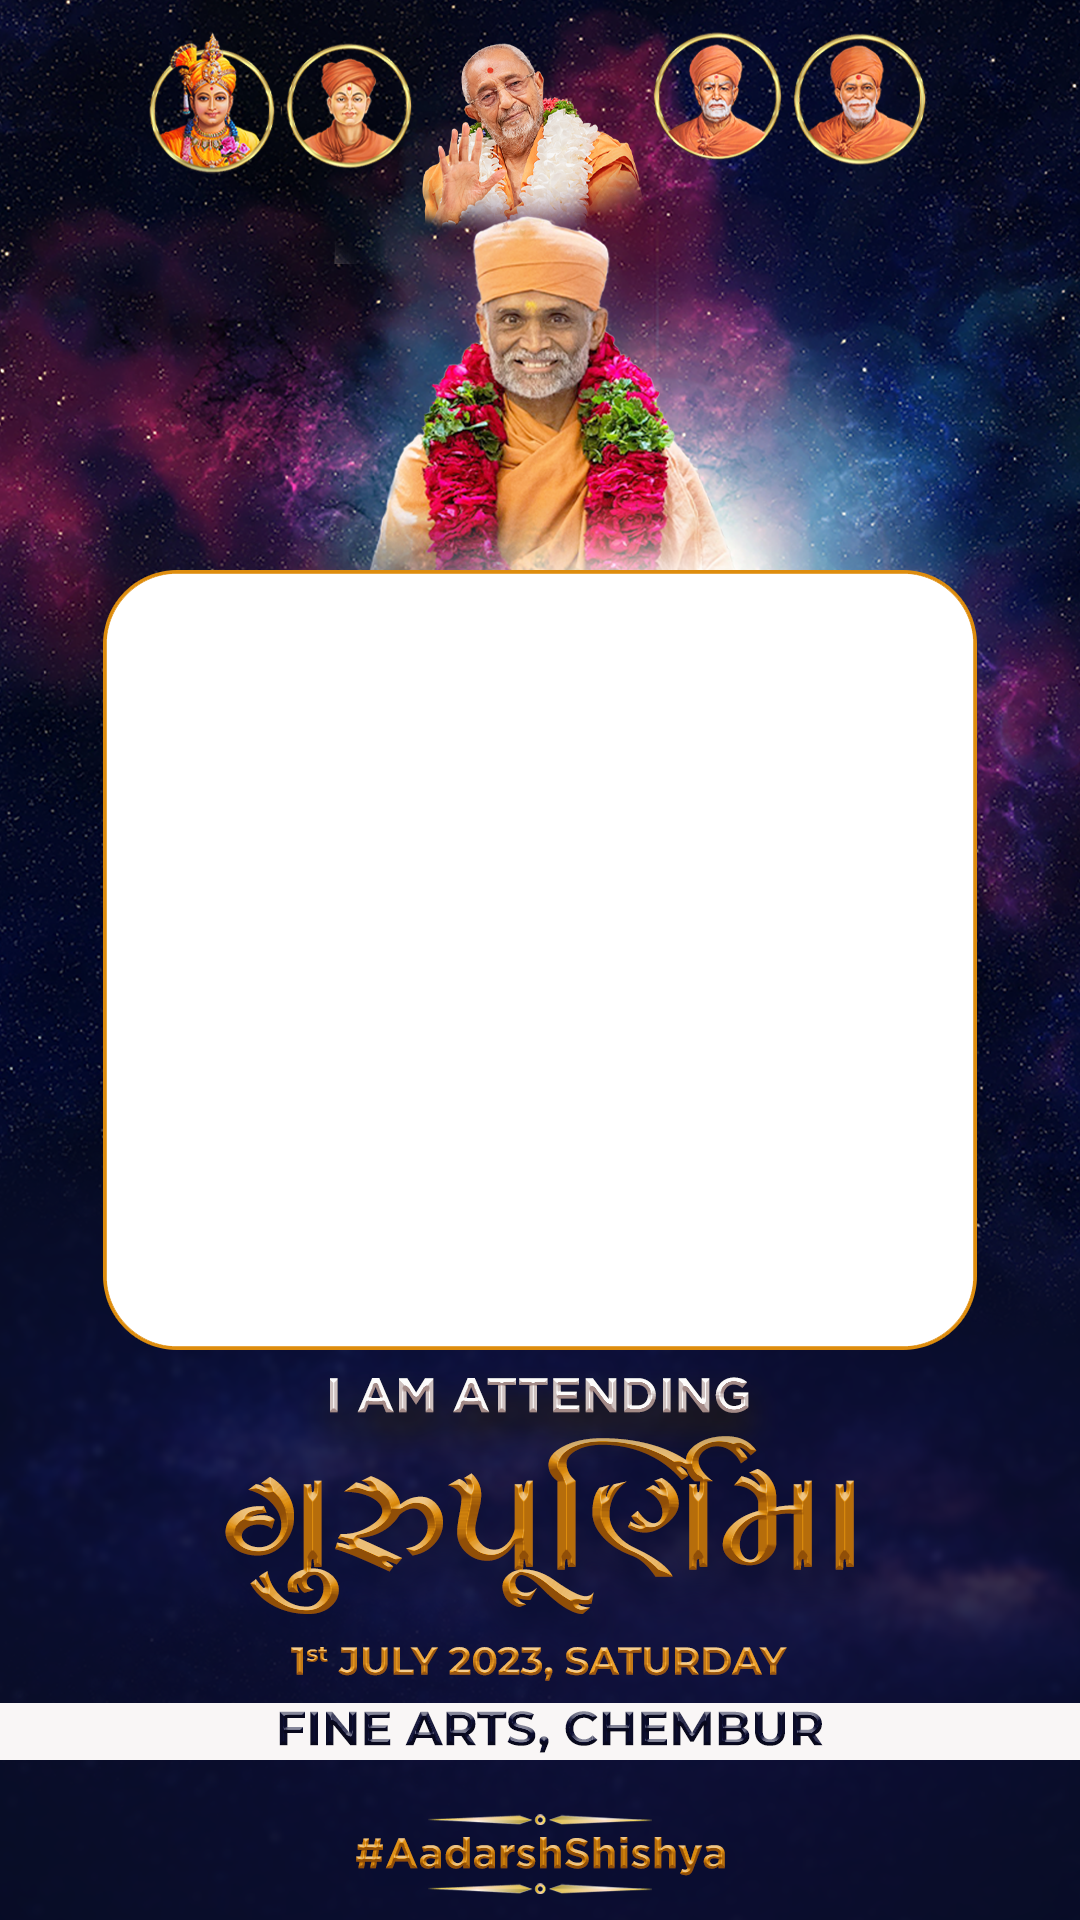
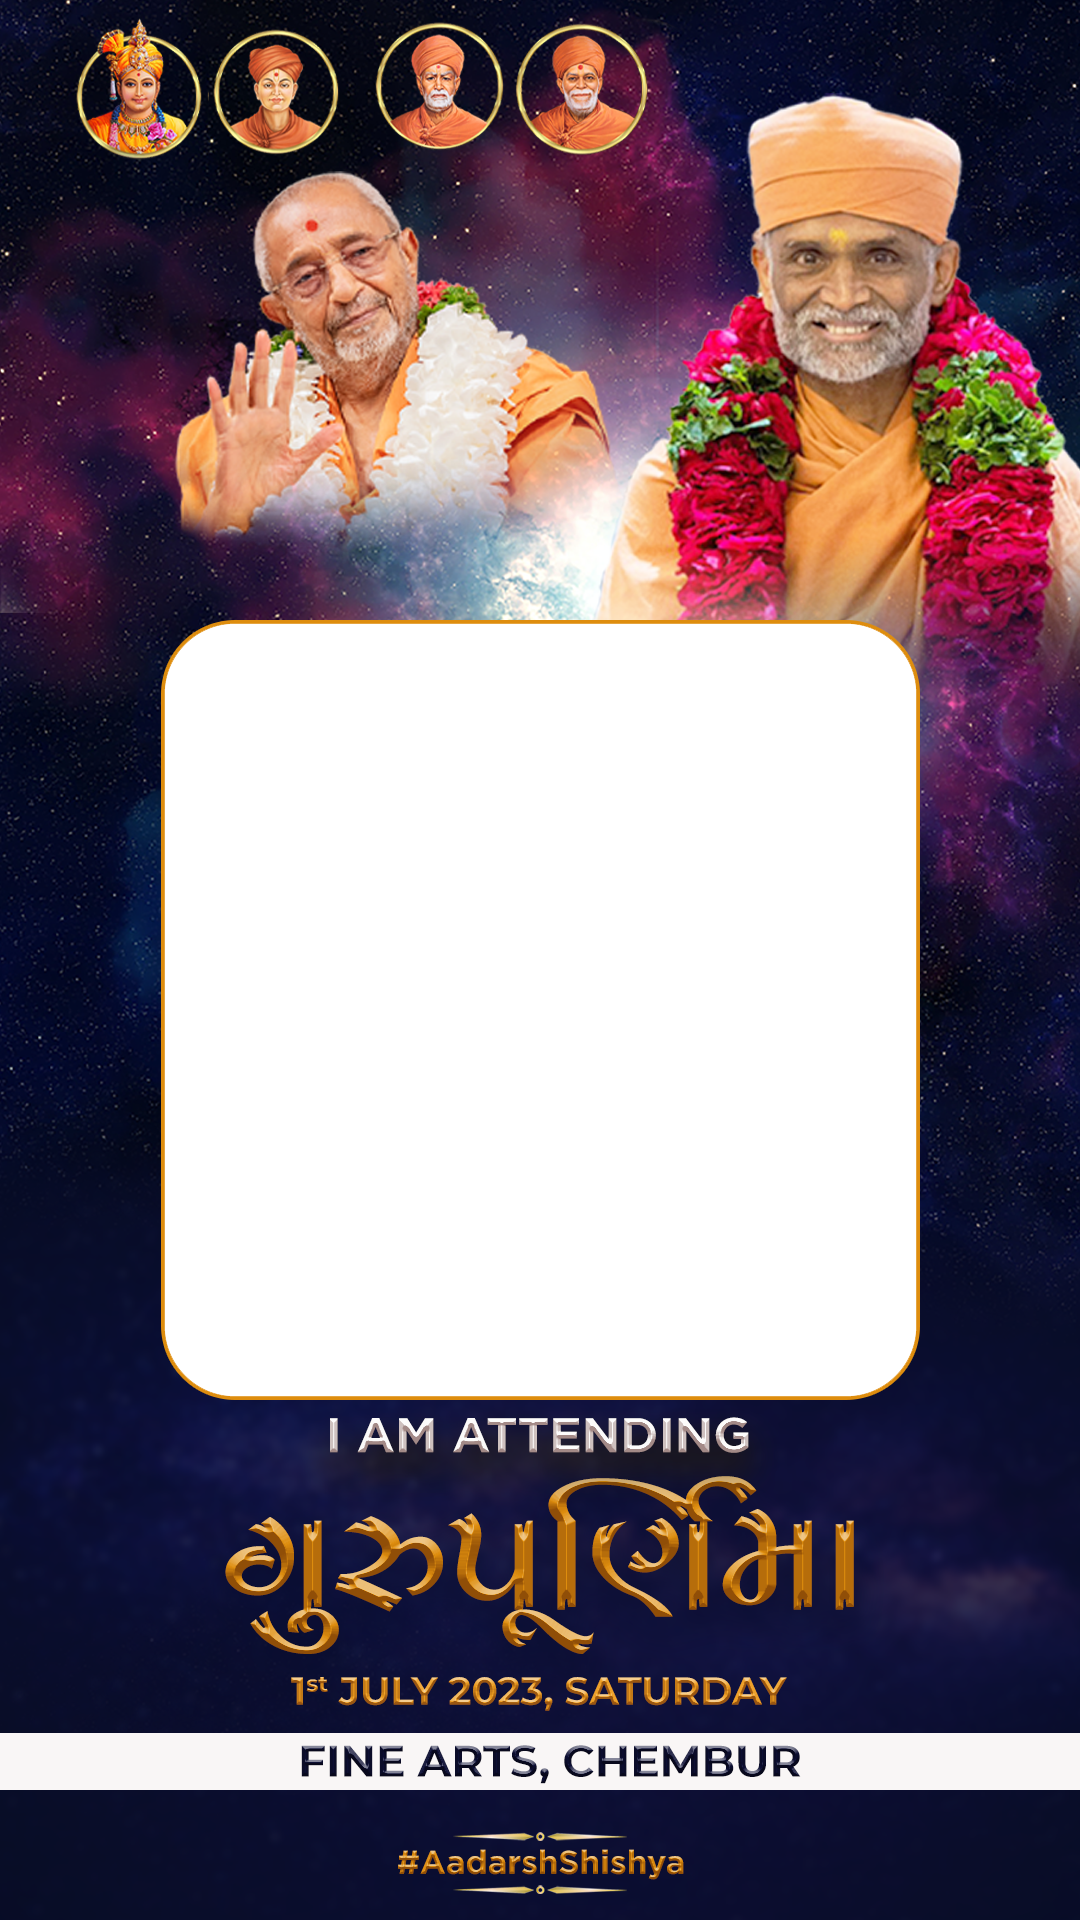
Add files via upload

diff --git a/index.html b/index.html
@@ -117,8 +117,8 @@
     <script src="js/cropper.js"></script>
     <script src="js/jquery-cropper.js"></script>
     <script>
-        var aspX = 400,
-            aspY = 360;
+        var aspX = 385;
+        var aspY = 385;
     </script>
     <script src="js/main.js"></script>
     <!-- Global site tag (gtag.js) - Google Analytics -->

diff --git a/css/style.css b/css/style.css
@@ -494,10 +494,10 @@ header.fixHeader .header {
 }
 
 .abs-div1 {
-    left: 10%;
-    top: 30%;
-    width: 80%;
-    height: 40%;
+    left: 15%;
+    top: 32%;
+    width: 70%;
+    height: 41%;
 }
 
 .abs-div1-attand1 {
